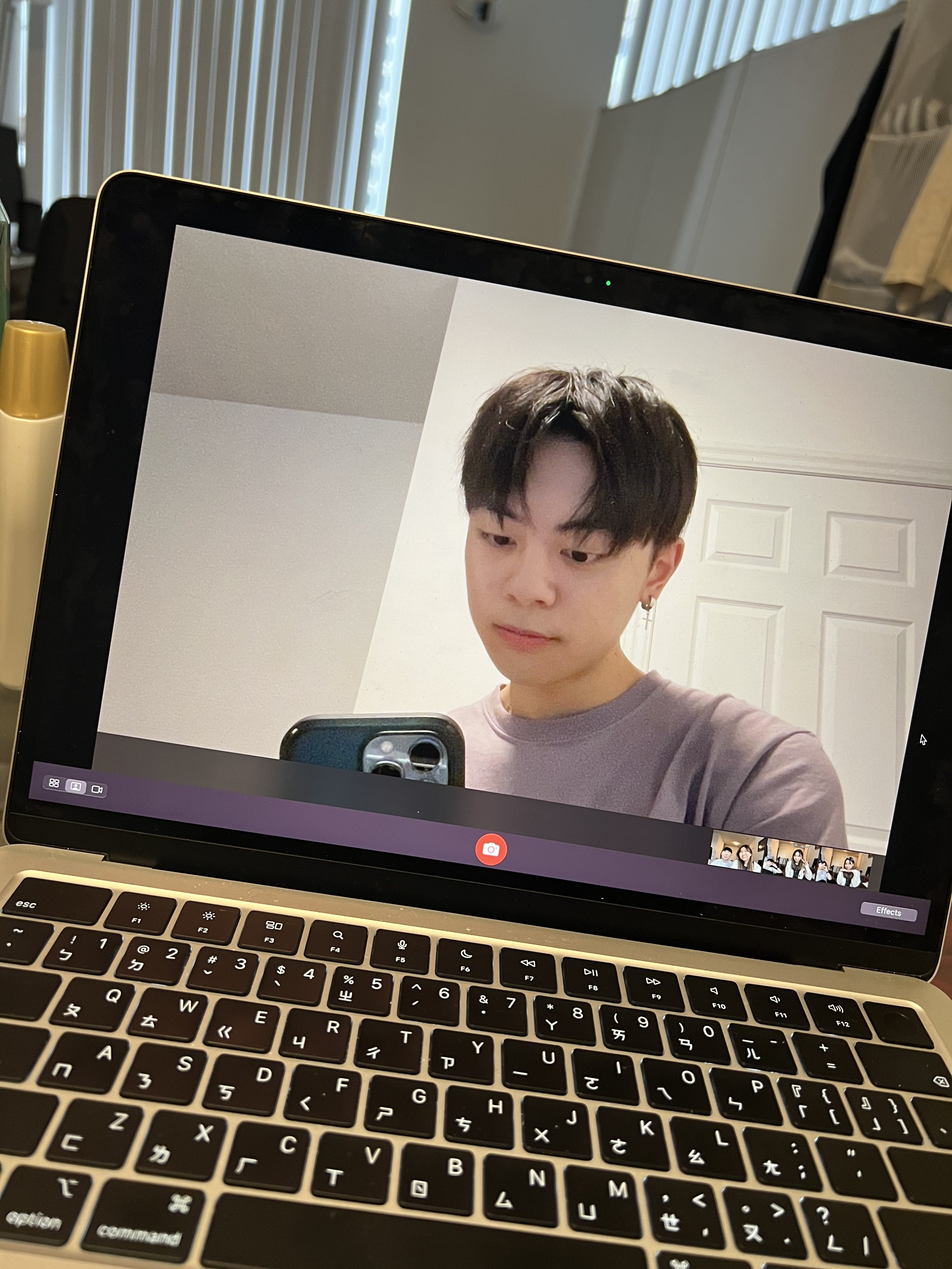
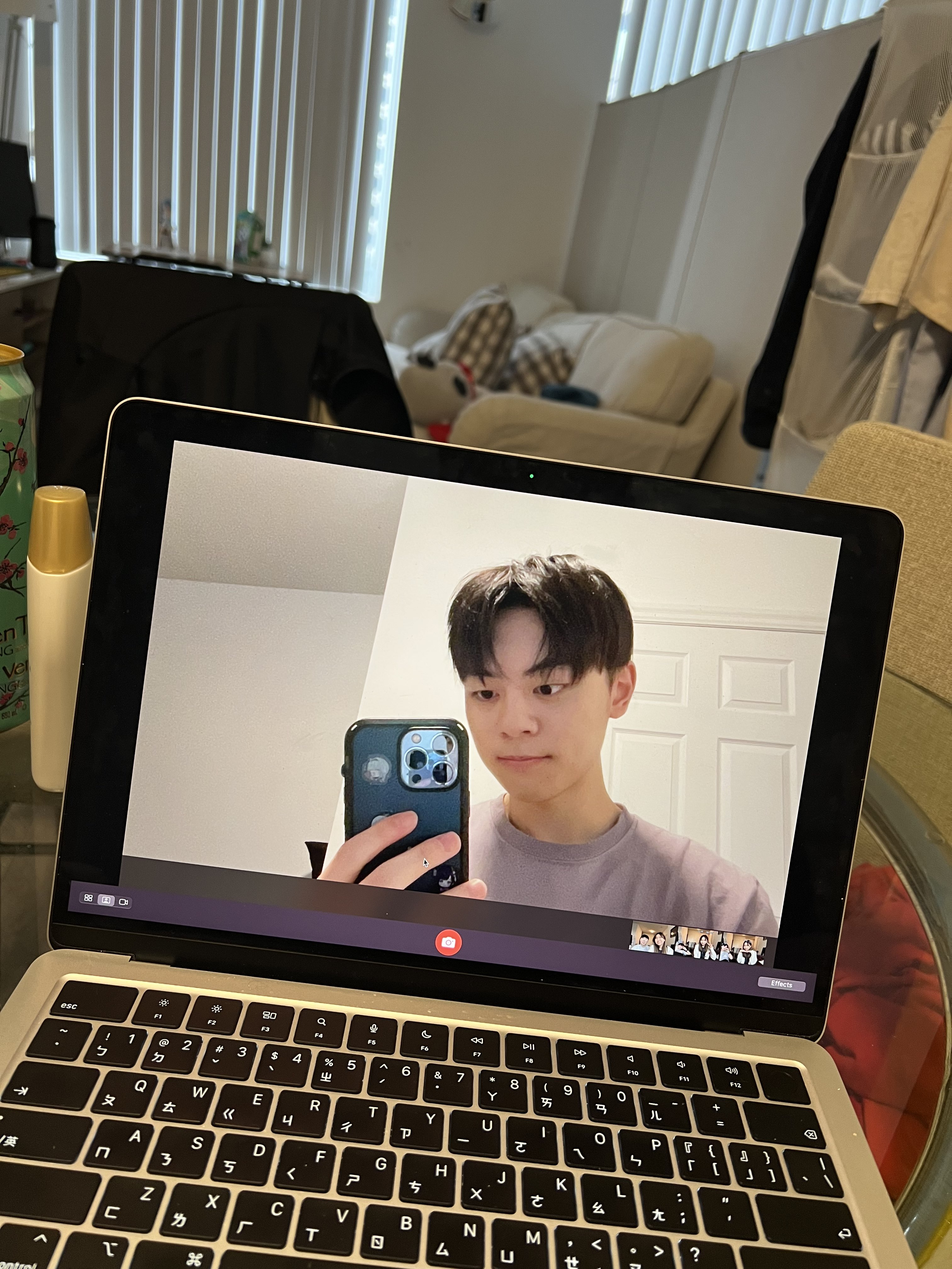
new image haha

diff --git a/about_me.html b/about_me.html
@@ -71,7 +71,7 @@
                 <img src="./images/athlete-of-the-year.jpg" alt="">
             </div>
             <div class = "slide">
-                <img src="./images/jonathan.png" alt="">
+                <img src="./images/jonhung.jpg" alt="">
             </div>
             <div class = "slide">
                 <img src="./images/me.jpg" alt="">
